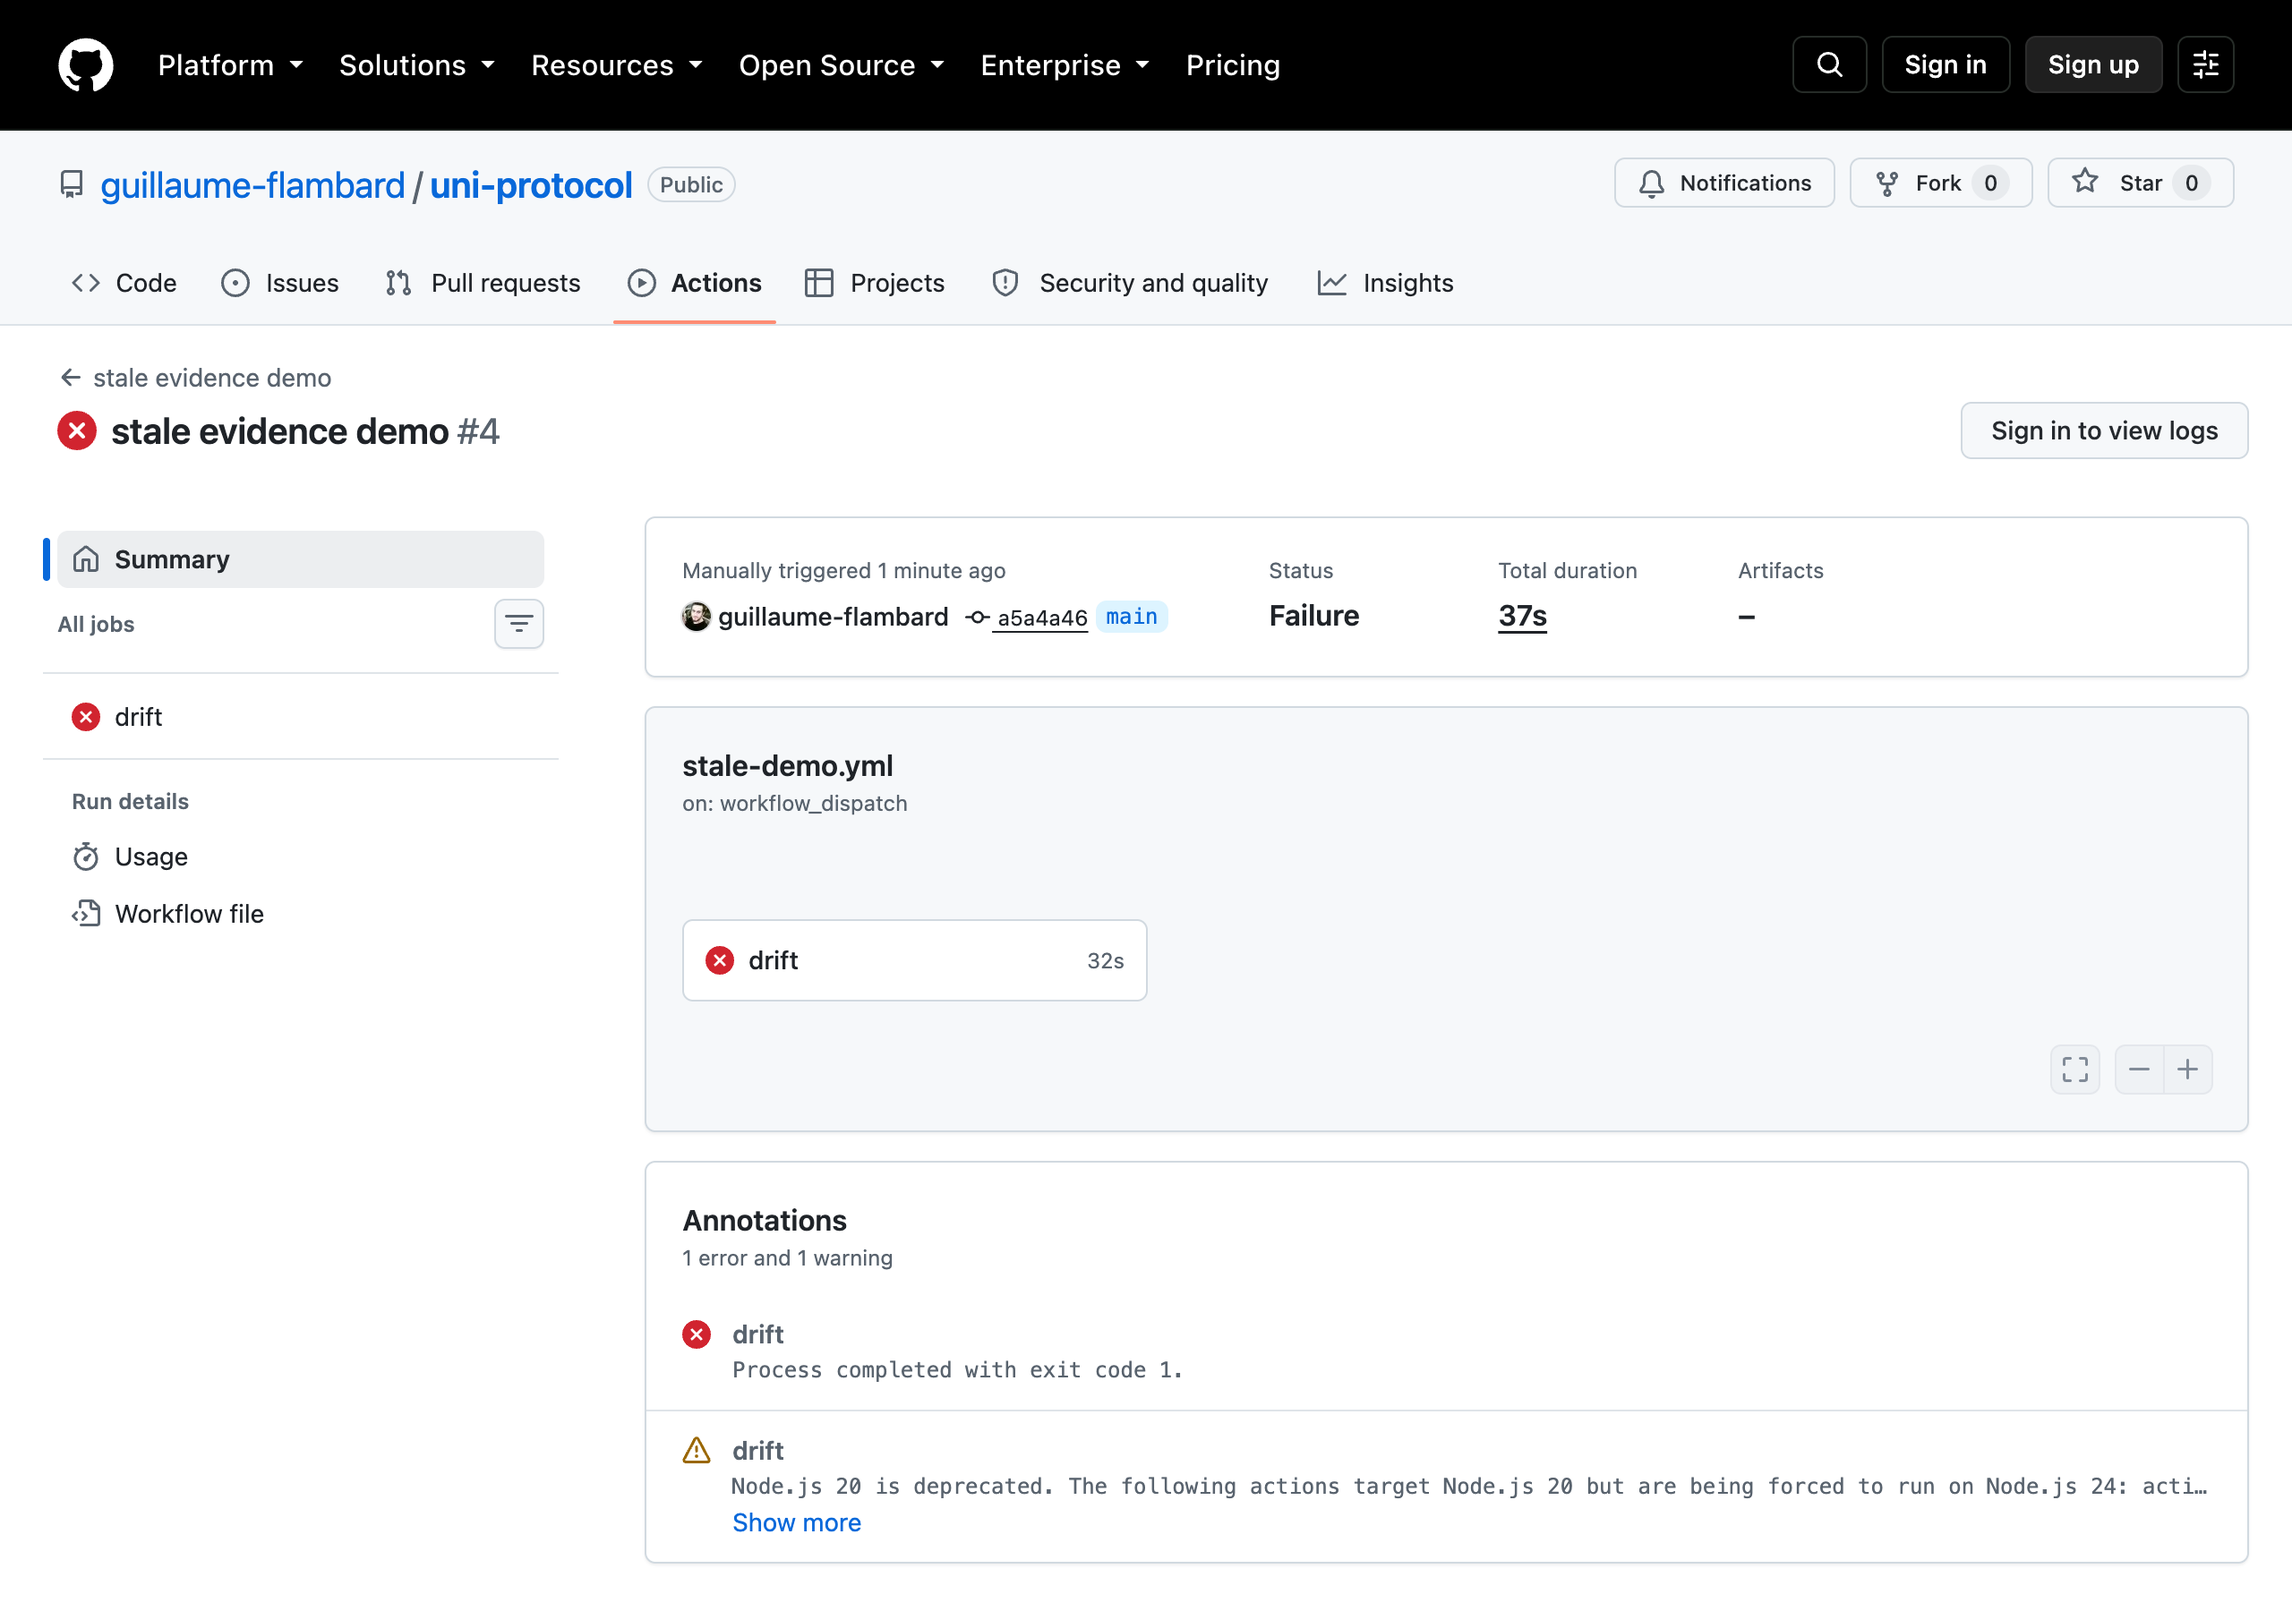
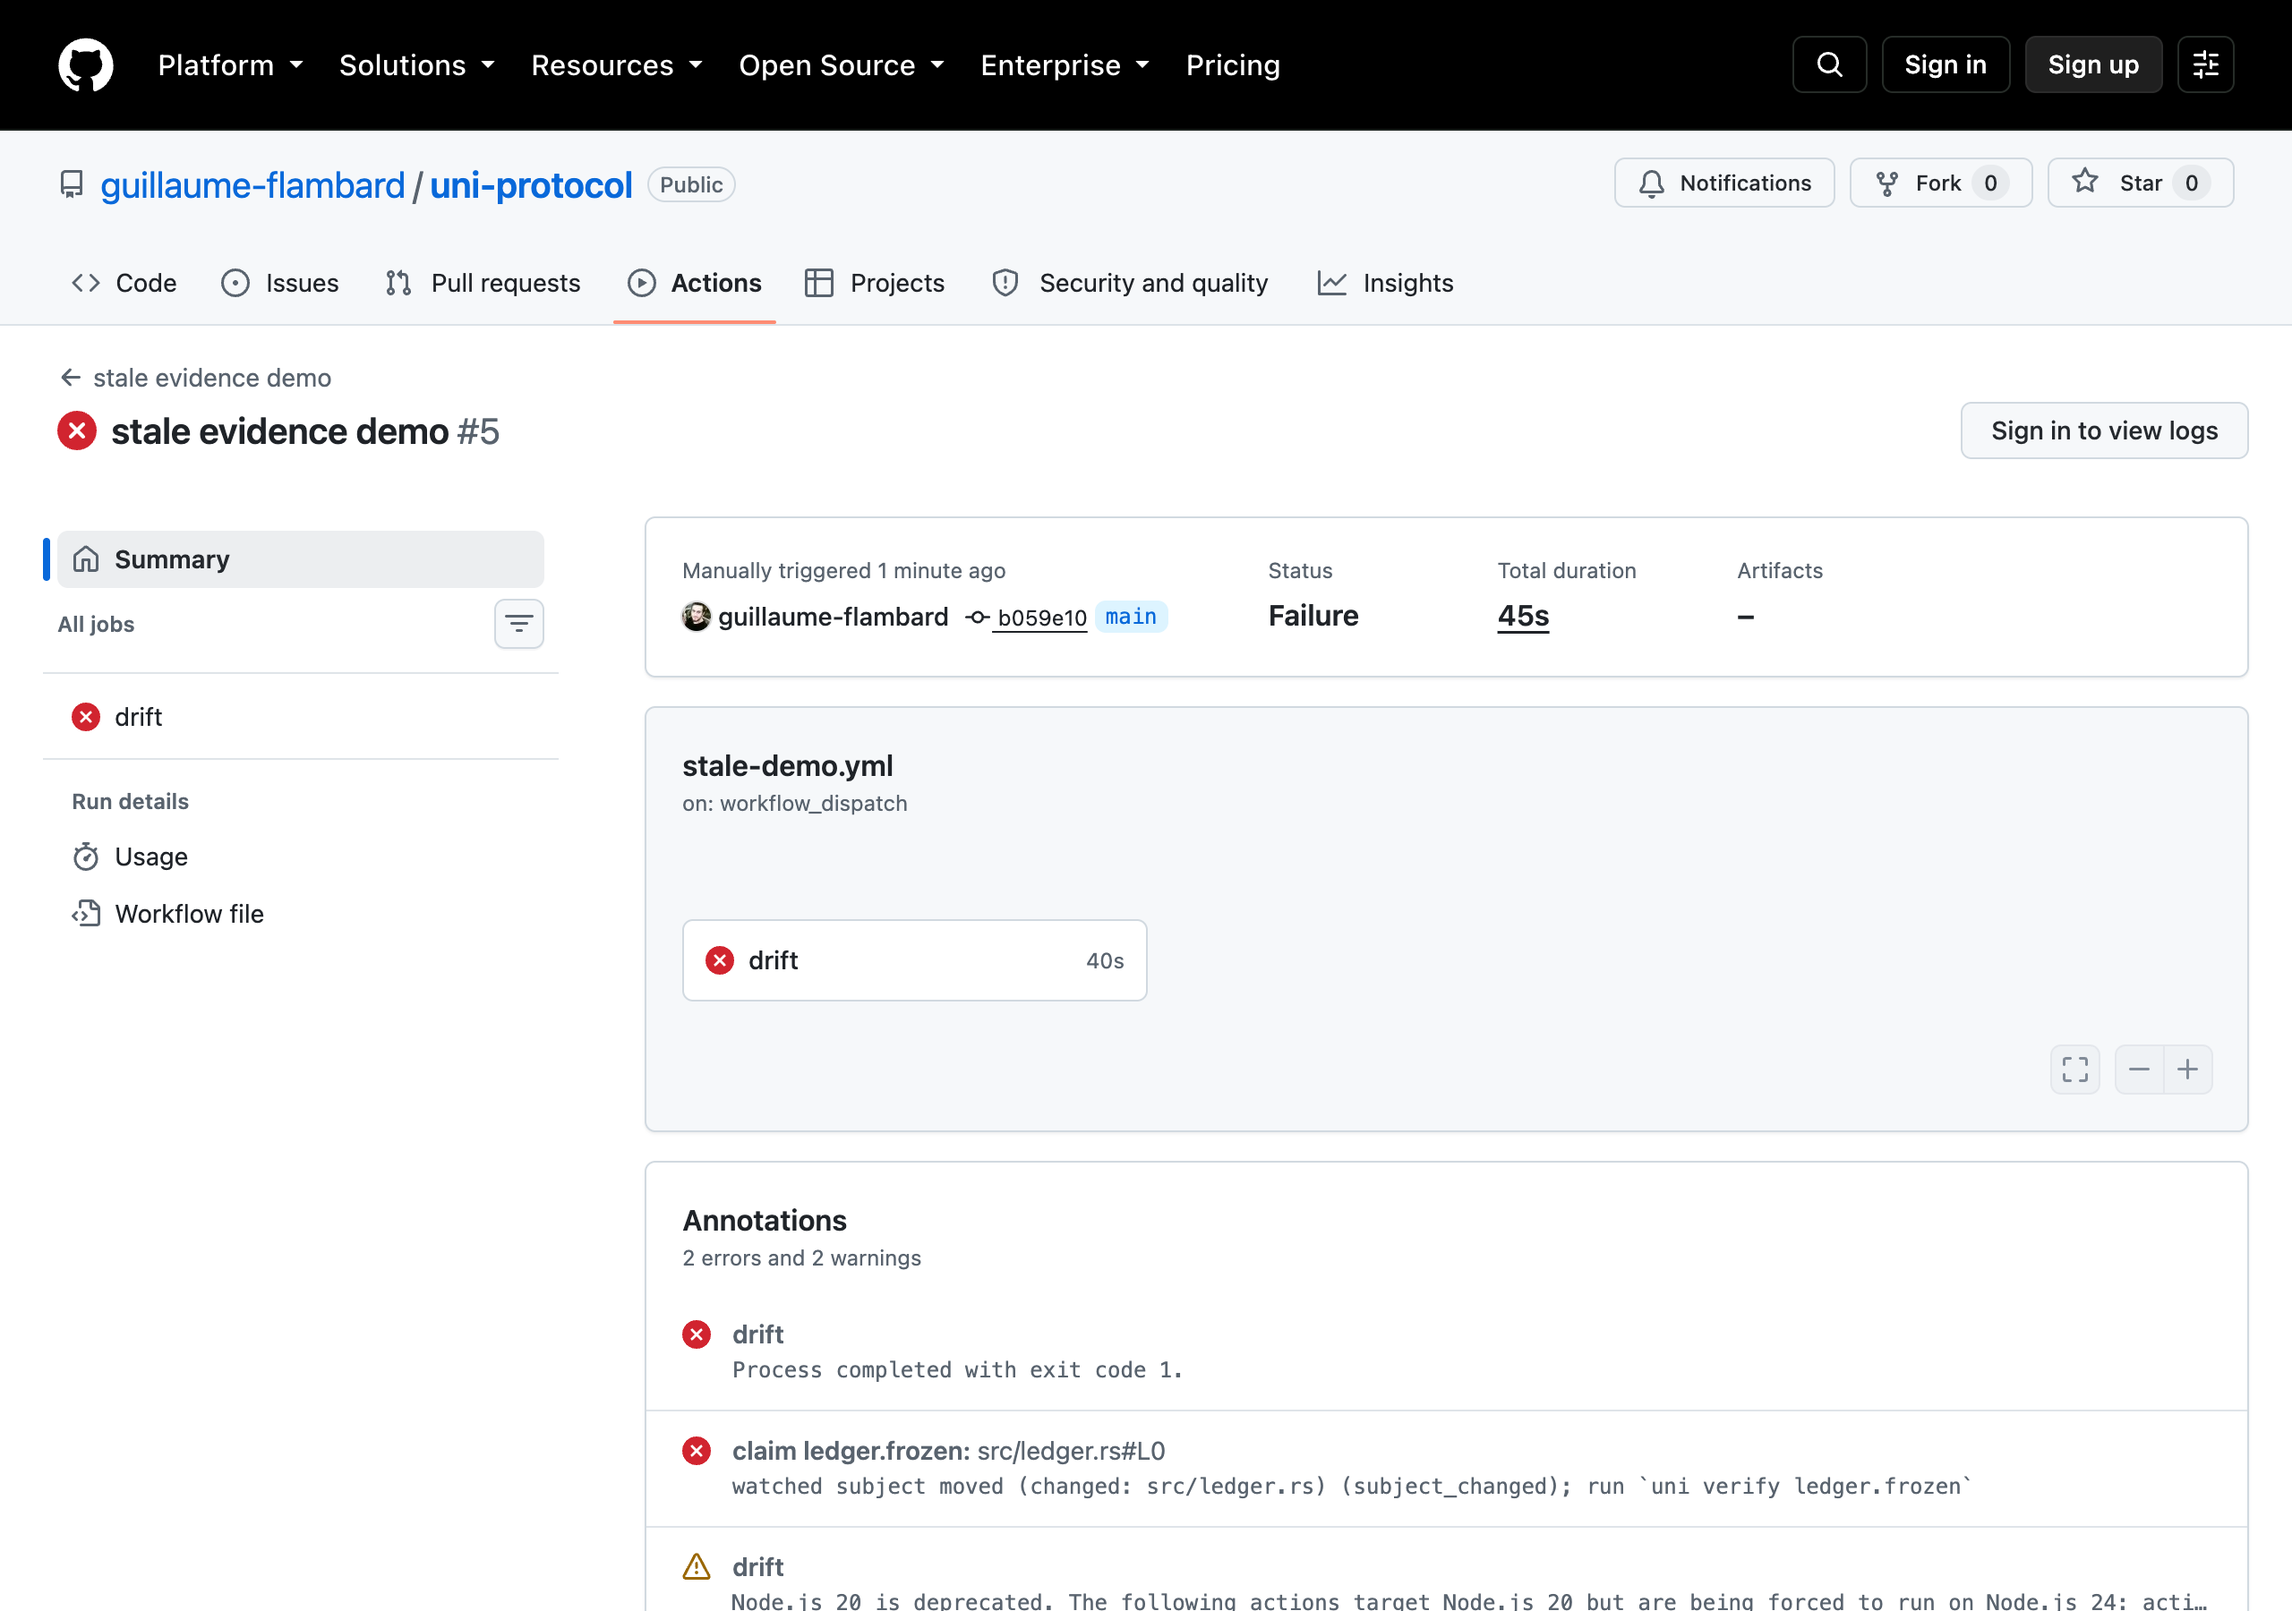
docs: flagship check page with screenshots; README evidence section; drop stale test count

diff --git a/docs/flagship-check.md b/docs/flagship-check.md
@@ -1,0 +1,66 @@
+# The check, in the pull request
+
+UNI's whole point is a sentence: *the tests passed, but were they run on what you
+are shipping?* This is that sentence as a GitHub check.
+
+`examples/drift-demo/` is a small green repo. The workflow
+`.github/workflows/stale-demo.yml` (named `stale evidence demo`) proves it,
+then edits the watched file, then verifies again. The second verify is red, and
+`uni explain --annotations` puts the reason on the file that moved:
+
+![A failed run, with the drifted claim annotated on src/ledger.rs](assets/stale-annotations-run.png)
+
+```
+2 errors and 2 warnings
+
+  claim ledger.frozen: src/ledger.rs#L0
+  watched subject moved (changed: src/ledger.rs) (subject_changed); run `uni verify ledger.frozen`
+```
+
+The step order is the argument: prove, drift, annotate, then fail.
+
+![The job steps: prove, deliver a change, annotate, fail](assets/stale-demo-steps.png)
+
+## Why this is not a lint
+
+A linter reports a rule violation in the current bytes. This reports that a proof
+made on one revision was carried to another, and names the dimension: here both
+`uncommitted_changes` and `subject_changed`, with `src/ledger.rs` as the file
+that moved. The same command also emits `commit_changed`, `contract_changed`,
+`verifier_config_changed` when the trusted registry changed (the run says
+`REGISTRY_CHANGED` and requires a human reread), `authorization_changed` when the
+reviewed binding no longer resolves, and `expired` when a time-boxed fact aged
+out.
+
+The annotation is a `::error` for a `CRITICAL` claim and a `::warning` otherwise,
+always with `file=` set to the file that moved, so GitHub renders it inline on
+the diff. One annotation per file, with the reason that names it: a reason like
+"tracked files were modified" that carries no path does not get a duplicate note
+on the workflow file.
+
+## Run it yourself
+
+```bash
+gh workflow run stale-demo.yml --ref main
+```
+
+It is manual and it is meant to fail: it breaks its own artifact on purpose, so
+running it on every push would leave a permanent red check. Its value is as a
+reproducible demonstration, and as the shape you copy into a real pipeline: run
+`uni verify`, and on failure run `uni explain --annotations` and fail the job.
+
+## In a real pipeline
+
+```yaml
+- run: uni verify c.uni
+- if: failure()
+  run: |
+    uni explain --annotations
+    uni explain >> "$GITHUB_STEP_SUMMARY"
+- if: failure()
+  run: exit 1
+```
+
+That is exactly what the published composite action
+(`adapters/github/action.yml`) does: verify, and on failure annotate the drift and
+append the plain-word narration to the job summary.

diff --git a/README.md b/README.md
@@ -87,12 +87,23 @@ specification.
 ## Dogfood & tests
 
 ```bash
-cargo test                  # 25 tests incl. propperty-based decision determinism
+cargo test                  # 114 tests incl. property-based decision determinism
 ./target/release/uni verify examples/hello/hello.uni && echo OK
 ```
 
-Study results so far: UNI 100% agreement on 5-task sample, agent self-report 80%,
-0 false accepts (release criterion), 1/1 true block.
+Evidence so far, in three parts:
+
+- **The check, in the pull request**: a drifted proof lands as an inline
+  annotation on the file that moved. [docs/flagship-check.md](docs/flagship-check.md)
+- **Stale Evidence Benchmark**, 100 manufactured drift scenarios with no model
+  involved: on the 70 where the artifact stopped satisfying the claims, an
+  exit-code CI stayed green 50 times, a cached CI 70 times, UNI 0 times. UNI
+  detection 86 percent (100 percent in every detectable category), false-stale 0
+  percent. [experiments/stale-bench/RESULTS-2026-09-14.md](experiments/stale-bench/RESULTS-2026-09-14.md)
+- **Agent study**, 15 reviewed runs: 0 false accepts, 23 percent false rejects all
+  caused by test naming, fixed by `uni brief`; the model never misreported on 13
+  runs. H1/H2 not supported.
+  [experiments/study-50/RESULTS-2026-09-14.md](experiments/study-50/RESULTS-2026-09-14.md)
 
 ## Constitution
 

diff --git a/docs/index.md b/docs/index.md
@@ -25,5 +25,6 @@ describes. Constitution: `../constitution.md`. Spec source:
 
 ## Stale evidence
 
+- [The check, in the pull request](flagship-check.md)
 - [Why a proof stopped applying](decisions.md#why-a-proof-stopped-applying)
 - [Stale Evidence Benchmark, 2026-09-14](../experiments/stale-bench/RESULTS-2026-09-14.md)
